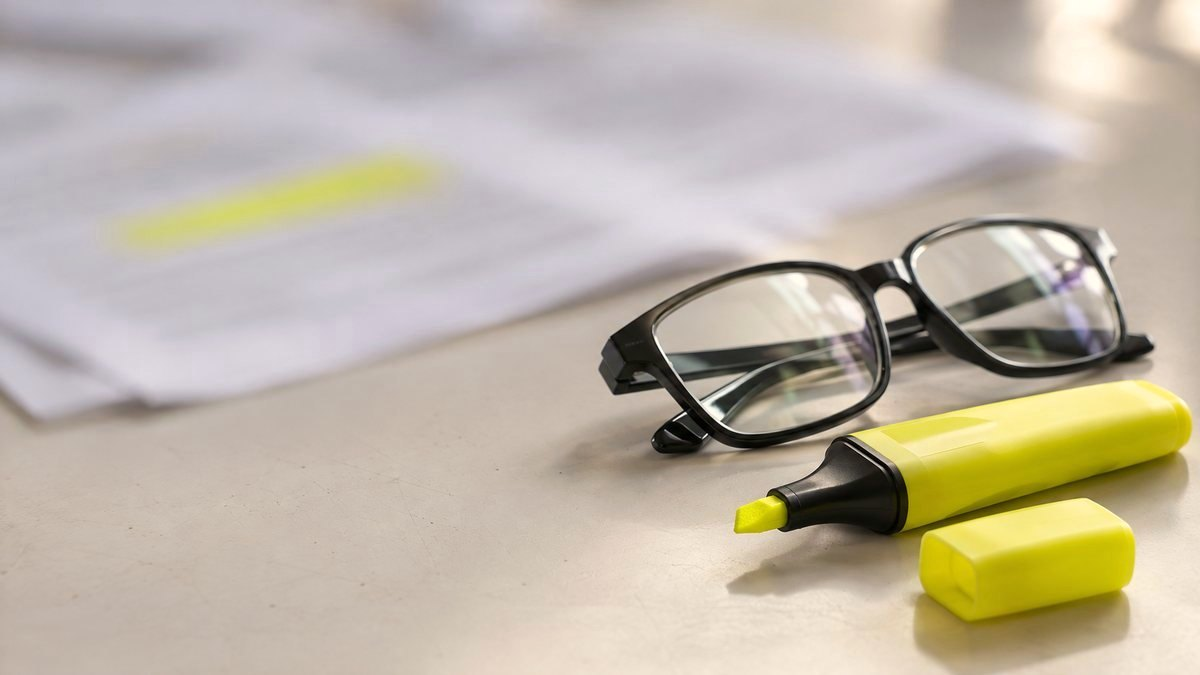
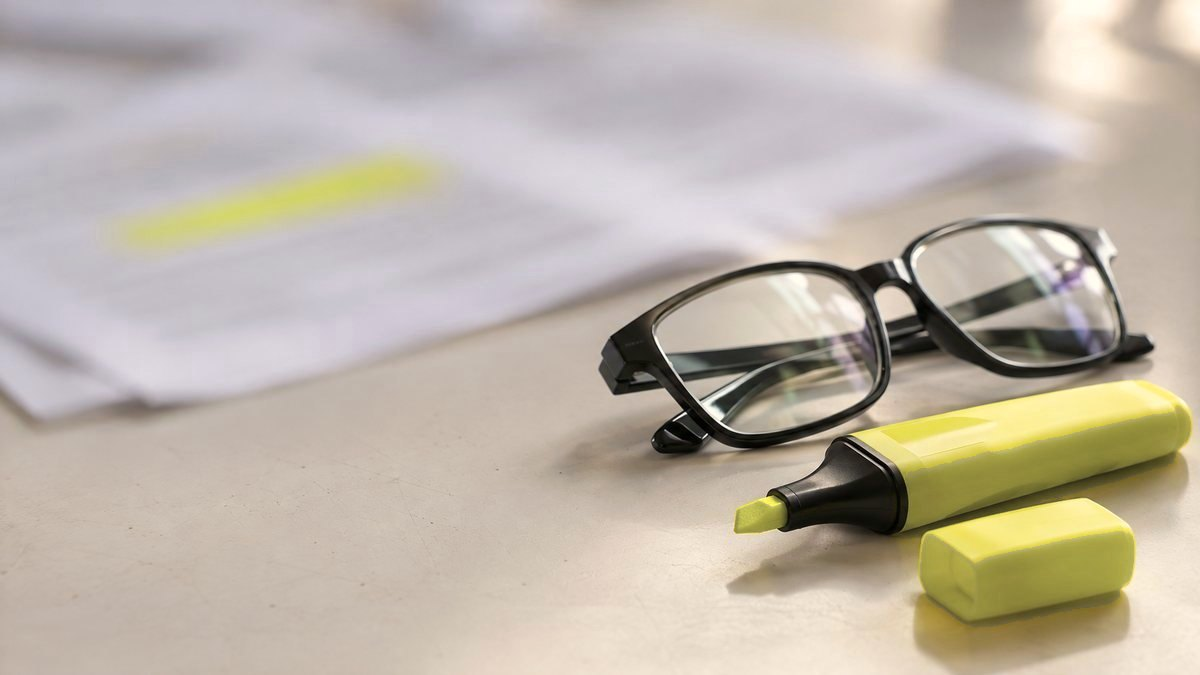
Round 6: swap sheet image, soften marker, grain on face, soften absolute claim

Changed region(s): [[0.74, 0.5911, 1.0, 0.9333], [0.6167, 0.7467, 0.6783, 0.8089]]

diff --git a/docs/index.html b/docs/index.html
@@ -80,11 +80,14 @@
     <h2>求人票で最初に見るところ4選</h2>
     <p class="lead">次に、求人を見るときの道具です。これだけ知っていれば、だいぶ避けられます。</p>
     <!-- 採点2周目#3対応: 縦長画像を4/3の横枠に入れて主題が切れていたため、画像を横位置(1200x675)で作り直した -->
-    <img class="pic pic-fv" id="fvcut" src="img/riko_fv.jpg" width="1200" height="675" alt="" loading="lazy" decoding="async">
+    <!-- 採点6周目#2対応: ここは「求人票で最初に見るところ」の節。ペン1本のボケ写真では主張と接続せず、
+         同じ黒ペンがhand_noteと重複していた。書類＋眼鏡＋蛍光ペン（紙面を精査している絵）に差し替え。
+         演者による出し分けは行わない（両者とも同じ「求人票を見る」行為のため） -->
+    <img class="pic pic-fv" src="img/mina_fv.jpg" width="1200" height="675" alt="" loading="lazy" decoding="async">
     <ol class="points">
       <li><h3>「年間休日120日以上」の以上を見る</h3><p>120日はだいたい土日祝が休みの計算です。「120日以上」ではなく「110日」なら、月1回は土曜出勤がある計算になります。数字そのものより、何日からの話なのかを見ます。</p></li>
       <li><h3>「みなし残業」は、何時間分かを見る</h3><p>固定残業代・みなし残業と書いてある場合、何時間分が含まれているかが必ず書いてあります。そこが長いと、その時間までは働く前提の設計です。</p></li>
-      <li><h3>「アットホームな職場」は情報ではない</h3><p>書いてあっても減点にはしません。ただ、<strong>給与・休日・残業のどれかが書かれていない求人票に限って、この言葉が入っています。</strong>書くことが無い欄を埋めた跡だと思って見てください。</p></li>
+      <li><h3>「アットホームな職場」は情報ではない</h3><p>書いてあっても減点にはしません。ただ、<strong>給与・休日・残業のどれかが書かれていない求人票ほど、この言葉が入りやすい。</strong>書くことが無い欄を埋めた跡だと思って見てください。</p></li>
       <li><h3>離職率は、求人票の外で調べられる</h3><p>求人票に載っていなくても、会社の採用ページや口コミで人の入れ替わりの速さは見えてきます。どこを見るか、それさえ覚えておけば自分で確かめられる。</p></li>
     </ol>
     <p class="closing">ここまでを自分で確かめたあとに残るのが、求人票に書いていないほうです。</p>
@@ -276,7 +279,7 @@
     img.src = file;
   }
   swap('face', 'img/mina_face.jpg', 'img/riko_face.jpg');
-  swap('fvcut', 'img/mina_fv.jpg', 'img/riko_fv.jpg');
+  // 採点6周目#2対応: #sheet の画像は演者で出し分けなくなったため swap を削除（対象idが存在しない）
   if (who === 'mina') document.getElementById('face').setAttribute('alt', nameJa);
   else document.getElementById('face').setAttribute('alt', nameJa);
 
